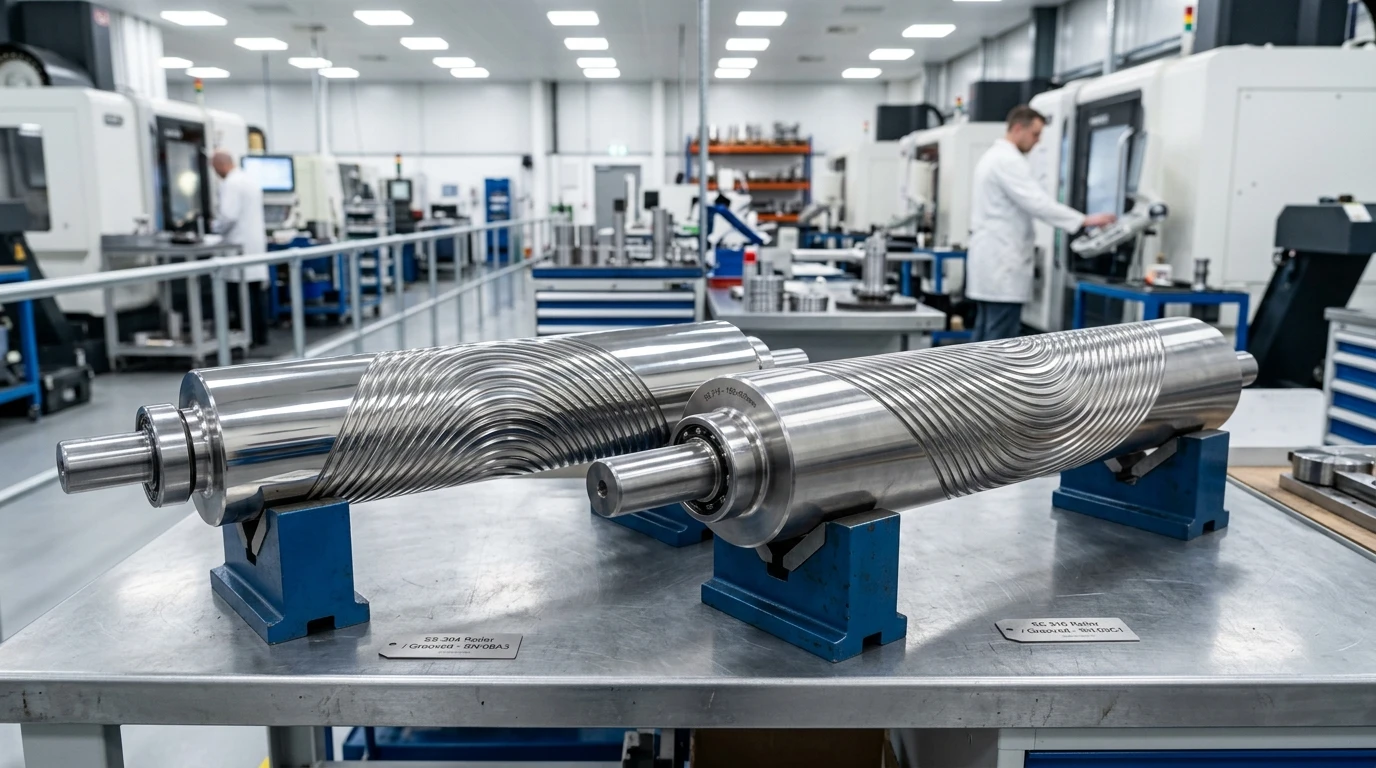
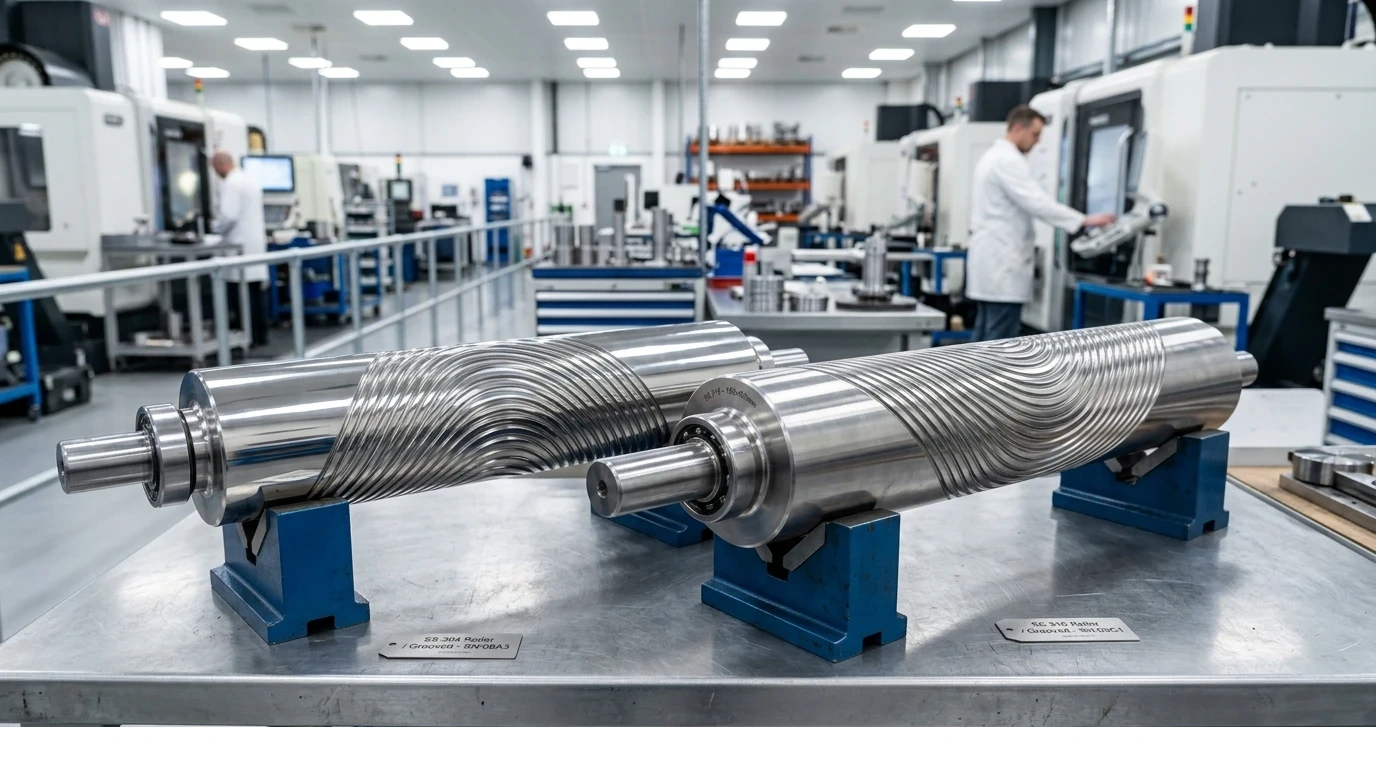
Remove black bottom bar from roller images and adjust scroll roller positioning

Changed region(s): [[0.0, 0.9375, 1.0, 1.0]]

diff --git a/assets/css/style.css b/assets/css/style.css
@@ -2564,3 +2564,13 @@ textarea.form-control {
     font-size: 1.65rem;
   }
 }
+
+/* Adjustment for aluminium scroll expander roller to center starting half */
+img[src*="aluminium_scroll_roller"] {
+  transform: scale(2.05) translate(-16%, -4%) !important;
+}
+
+.detail-main-stage:hover img[src*="aluminium_scroll_roller"],
+.product-card:hover img[src*="aluminium_scroll_roller"] {
+  transform: scale(2.18) translate(-16%, -4%) !important;
+}

diff --git a/dist-home/assets/css/style.css b/dist-home/assets/css/style.css
@@ -2564,3 +2564,13 @@ textarea.form-control {
     font-size: 1.65rem;
   }
 }
+
+/* Adjustment for aluminium scroll expander roller to center starting half */
+img[src*="aluminium_scroll_roller"] {
+  transform: scale(2.05) translate(-16%, -4%) !important;
+}
+
+.detail-main-stage:hover img[src*="aluminium_scroll_roller"],
+.product-card:hover img[src*="aluminium_scroll_roller"] {
+  transform: scale(2.18) translate(-16%, -4%) !important;
+}
